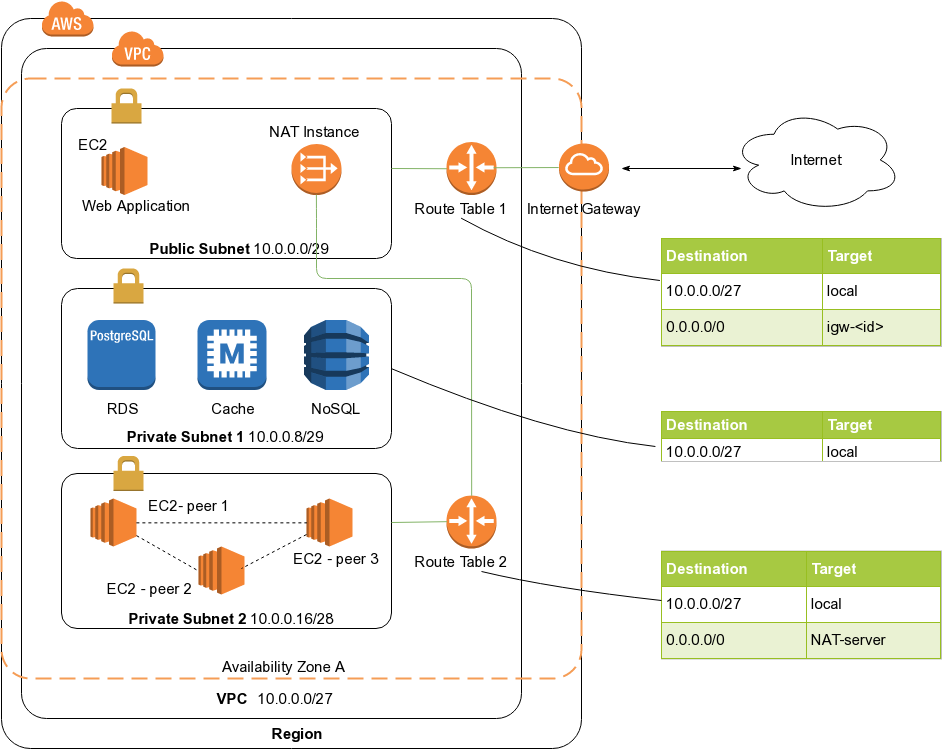
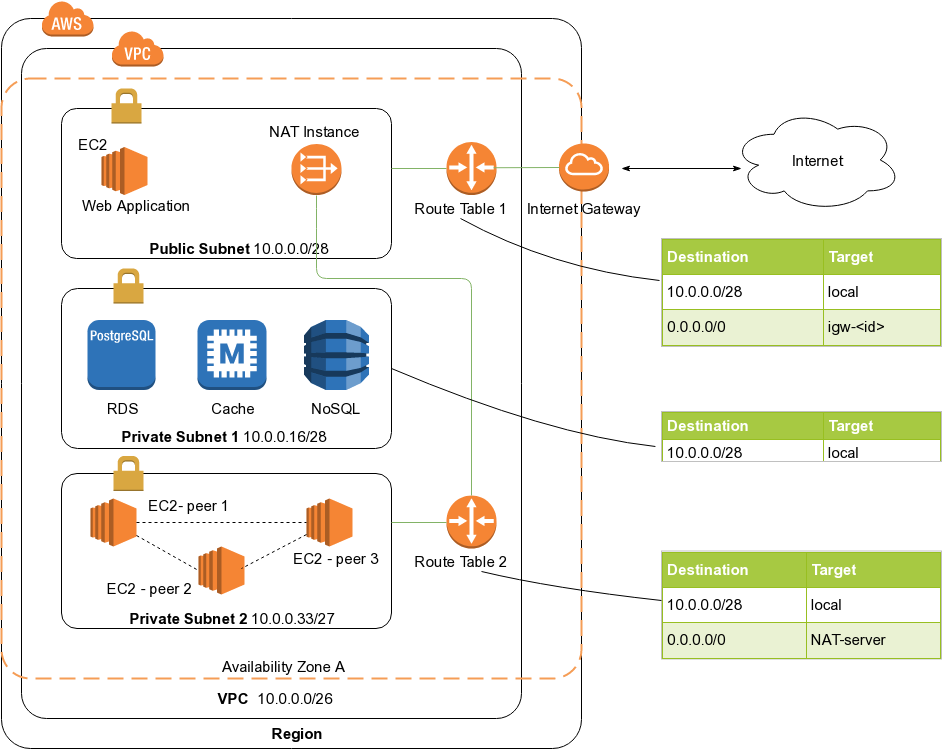
writing deploy chapter; added miscellaneous notes to different parts of the draft

diff --git a/initial-writeup/timeline.tex b/initial-writeup/timeline.tex
@@ -3,34 +3,30 @@
 I intend to graduate in fall 2019 i.e next semester. Below is my timeline to execute the thesis starting
 first week of June, 2019:
 \begin{itemize}
-\item[(Week 1 - 7)] First get the single node crawler running on local development environment. To do this,
+\item[(Week 1 - 7)] First get the single node crawler running on local development environment. To achieve this,
   \begin{itemize}
   \item[(Week 1)] Build docker images of data stores involved. I will be using PostgreSQL for
     fingerprintDB, Robots Exclusion Policy, and DUE url set. The job data will be stored in MongoDB(local)
-    and DynamoDB(AWS). Each data store will maintain local.yml
+    and DynamoDB-MongoDB compatible(AWS). Each data store will maintain local.yml
     \& production.yml that will point to local and aws version of databases, respectively.
-  \item[(Week 1)] Build docker image of RabbitMQ with default configuration. Followed by getting acquainted with enough terminology and tutorials to get started. This image will be shared with all phases of a
+  \item[(Week 1)] Build docker image of RabbitMQ with default configuration. Followed by getting acquainted with enough terminology and tutorials to get started. This image will be shared with all subsystems of a
     crawler.
-  \item [(Week 2)]Initialize git repository for each phase of the crawler. Build docker image for each phase,
-    specify RabbitMQ as its dependency. Bind each phase to a queue through a message broker depending
+  \item [(Week 2)]Initialize git repository for each subsystem of the crawler. Build docker image for each subsystem,
+    specify RabbitMQ as its dependency. Bind each subsystem to a queue through a message broker depending
     on its role as a consumer/producer.
-  \item[(Week 2)] Boot the phases in sequence using docker compose. Test the message passing between services.
-    This stage ensures the tooling required is up \& running as expected.
-  \item[(Week 3)] Code functionality for consumer \& producer scripts bound to a queue of fetcher module. 
-  \item[(Week 4)] Code functionality for consumer \& producer scripts of Parser, Content Seen modules as separate
-    services. Test message passing among fetcher, parser , \& content seen.
-  \item[(Week 5)] Code functionality for consumer \& producer scripts bound to a queue for URL filter module. Test
-    message passing between this filter and previous modules implemented.
-  \item[(Week 6)] Implement consumer \& producer scripts for DUE. Test message passing between modules implemented
-    so far.
-  \item[(Week 7)] Code functionality for URL Frontier. Verify messages published \& consumed. Test message passing between modules implemented so far.
+  \item[(Week 2)] Boot all the subsystems in sequence using docker compose. Test the message passing between services. This stage ensures the tooling required is up \& running as expected.
+  \item[(Week 3)] Code functionality for consumer \& producer scripts bound to a queue of fetcher \& DNS subsystem. 
+  \item[(Week 4)] Code functionality for consumer \& producer scripts of Parser, Content Seen subsystems, respectively as separate services. Test message passing among fetcher, parser , \& content seen.
+  \item[(Week 5)] Code functionality for consumer \& producer scripts bound to a queue for URL filter subsystem. Test message passing between this filter and previous subsystems implemented.
+  \item[(Week 6)] Implement consumer \& producer scripts for DUE. Test message passing between subsystems implemented so far.
+  \item[(Week 7)] Code functionality for URL Frontier subsystem. Verify messages published \& consumed. Test message passing between subsystems implemented so far.
   \end{itemize}
-\item[(Week 8)] At this stage, ensure the program is running as a single node on local machine.
-\item[(Week 8 \& 9)] Initialize a repo. for host splitting module. Implement consistent hashing algorithm.
-  This will parallelize crawling.
-\item[(Week 10)] Next, Setup AWS Infrastructure for whirlpool by following the diagram. Build and test
-    the docker images pointing to AWS data stores within the pvt subnets.
-\item[(Week 11)] Get crawler running on single node within a private subnet of AWS VPC.
+\item[(Week 8)] At this stage, ensure the crawler as a whole is running as a single node on local machine.
+\item[(Week 8 \& 9)] Next, Setup AWS Infrastructure for whirlpool by following the diagram. Build and test
+    the docker images in isolation pointing to AWS data stores within the pvt subnets.
+\item[(Week 10)] Get crawler running on single node within a private subnet of AWS VPC.
+\item[(Week 10 \& 11)] Initialize a repo. for host splitting module. Implement consistent hashing algorithm. This will parallelize crawling.
+
 \item[(Week 11 \& 12)] Make 2nd identical clone of the crawler within a private subnet of AWS VPC. Observe \& verify traffic is split equally between the nodes.
 \item[(week 13)] Demonstrate Whirlpool working to Dr. Soltys. Make any changes requested in the code or the report.
 \end{itemize}

diff --git a/initial-writeup/deploy/deploy-1.tex b/initial-writeup/deploy/deploy-1.tex
@@ -1,10 +1,54 @@
 % Chapter Deployment
 \chapter{Deployment on AWS}
-\section{Infrastructure from 10,000 feet}
+This chapter discusses server farm assembly for running whirlpool on a on-demand resources offered by
+AWS. It uses altitude analogy to illustrate important additions in infrastructure at various levels in
+detail.
+
+\section{Infrastructure from 10,000 feet}\label{infra10k}
+Given a working knowledge of AWS and a crawler which is replicated on to more than one machine, it 
+becomes naturally obvious to setup a subnet within a Virtual Private Cloud(VPC) and launch EC2 instances
+in it. The subnet within a VPC belongs to single Availability Zone(AZ). 
 \begin{figure}[h!]
   \centering
-  \includegraphics[width=20cm,height=12cm,keepaspectratio]{../media/crawler/ten-thousand-feet-aws.png}
-  \caption{Whirlpool Infrastructure using VPC, subnetting}
+  \includegraphics[width=18cm,height=12cm,keepaspectratio]{../media/crawler/ten-thousand-feet-aws.png}
+  \caption{Whirlpool Infrastructure using VPC, AZ, and subnet sizing}
+  \label{fig:infra10k}
 \end{figure}
 
-\pagebreak
+\noindent
+Next, the nature of crawling process is such that it will make outgoing connections to the web servers and never except incoming connections which means the subnet should allow outbound traffic and deny inbound traffic. According to the default behavior of AWS VPC, a private subnet is denied any inbound/outbound connections to the internet. To enable access to the internet within a subnet, a Internet Gateway(IGW) is attached to the VPC.
+\\
+\\
+\noindent
+Moreover, the subsystems of whirlpool leverage relational database to maintain a history of URLs, NoSQL to
+store extracted text which is then used by the presentation tier to render the data to the public. Also,
+later on, a cache server can be adopted to optimize lookup efficiency of various components. Given this
+requirement, its safer to form a second private subnet dedicated to placement of data stores and a third
+subnet which is public to host application server as shown in the figure \ref{fig:infra10k}. This way, the data store subnet would stay safer routing traffic only within the VPC.
+\\
+\\
+\noindent
+Figure \ref{fig:infra10k} uses Classless Inter-Domain Routing(CIDR) block of \ipAddress{10.0.0.0/26} which
+gives a range of \ipAddress{64} IPv4 addresses. This thesis uses a tool \cite{cidr} to calculate CIDR
+blocks. AWS VPC reserves first four and last IPv4 addresses of each subnet created for internal usage and
+therefore cannot be assigned to any instance of any resource. The primary CIDR block size of VPC is used
+then used to create 3 subnets within the VPC each with a non-overlapping CIDR block size. The minimum
+subnet size allowed is \ipAddress{28} and \ipAddress{16}.
+\\
+\\
+CIDR block size is given by $2^{(32 - x)}$, substituting $x$ = 26 yields,
+\begin{align*}
+  2^{(32 - 26)} &= 64 && \text{IP addresses} \\
+\end{align*}
+\\
+3 subnets formation = $\underbrace{16}_\text{public}$ + $\underbrace{16}_\text{1st private}$ + $\underbrace{32}_\text{2nd private}$
+\\
+\\
+Actual IP addresses available = $\underbrace{11}_\text{public}$ + $\underbrace{11}_\text{1st private}$ + $\underbrace{27}_\text{2nd private}$
+\\
+\\
+Public subnet IP range = \ipAddress{10.0.0.0/28} $\rightarrow$ (0 - 15)
+\\                                                
+1st Private subnet IP range = \ipAddress{10.0.0.0/28} $\rightarrow$ (16 - 31)
+\\                                                
+2nd Private subnet IP range = \ipAddress{10.0.0.0/28} $\rightarrow$ (32 - 64)

diff --git a/initial-writeup/deploy/deploy-2.tex b/initial-writeup/deploy/deploy-2.tex
@@ -1,19 +1,47 @@
 % Deployment chapter continued
-
 \section{Infrastructure from 5,000 feet}
+Now, following up from section \ref{infra10k}, the 2nd private subnet is the place where the crawler
+resides.
 \begin{figure}[h!]
   \centering
   \includegraphics[width=20cm,height=12cm,keepaspectratio]{../media/crawler/aws-deploy-5k-feet.png}
-  \caption{AWS Deployment of Whirlpool from 5,000 ft}
+  \caption{Whirlpool infrastructure with Route tables, NAT}
+  \label{fig:infra5k}
 \end{figure}
 
-\pagebreak
+\noindent
+According to figure \ref{fig:infra5k}, Each subnet is assigned a default route tables. In order for crawler
+subnet to allow outbound traffic, a NAT instance is deployed on public subnet. NAT forwards traffic form instances to the internet and and send the response for corresponding request back to the instances.
+It wont allow outside clients to initiate connections with instances in crawler subnet. Now the public subnet consists of one application server(EC2) and a NAT instance. The custom route(shown in route table 2)  is created and attached to crawler subnet. The custom rule directs the traffic originated within any of the private subnet peers matching subnet mask \ipAddress{0.0.0.0/0} to NAT server.
+\\
+\\
+At this stage, the public subnet is not really public unless a Internet Gateway(IGW) is attached. After creating a Internet Gateway(IGW), a custom route(show in route table 1) is created and attached to the public subnet. This will scope all packets matching \ipAddress{0.0.0.0/0} route to IGW. The traffic from private
+crawler subnet will flow to NAT Instance and then to the IGW. The NAT will translate back-and-forth source
+and destination IPs of private instances.
+\\
+\\
+The data store private subnet will contain RDS instance(PostgreSQL as part of the implementation). The
+extracted data is hosted in DynamoDB which is a NoSQL variant. One good thing about DynamoDB is its
+MongoDB compatible - the query language interface is blurred according to the recent announcement by AWS at
+the time of this writing.
 
+% note - here expand on EC2, RDS, cache, NoSQL, NAT computing specifications
 \section{AWS resources Cost Estimation}
+The below table provides approximate monthly billing information of AWS resources used by this project to build, test, and run experiments. The calculation was performed using AWS monthly calculator. At the time of
+this writing, the author is enrolled is 12-month AWS Free tier access which discounts most of the services
+the crawler system leverages.
+
+
 \begin{figure}[h!]
   \centering
   \includegraphics[width=20cm,height=12cm,keepaspectratio]{../media/crawler/aws-cost-estimate.png}
-  %\caption{AWS Deployment of Whirlpool from 5,000 ft}
+  \caption{AWS Monthly Expenses}
+  \label{fig:awscost}
 \end{figure}
+
+Under Amazon EC2 services, each crawler node sits on a EC2 instance which is t2.micro - 1GiB RAM coupled
+with Elastic Block Storage(EBS) volume of 5 GiB has approx. 5o\% utilization. Therefore a A 3-node crawler, will have 3x t2.micro and 3x 5 GiB EBS volumes.
+\\
+\\
 
 \pagebreak

diff --git a/initial-writeup/abstract_n_intro.tex b/initial-writeup/abstract_n_intro.tex
@@ -15,7 +15,7 @@ act accordingly. This thesis does not deal with data mining but instead focuses 
 \\
 \\
 \begin{itemize}
-  \item \textbf{Use of Message Queue:} In one case, the paper doesn't discuss communication between its components. This thesis makes use of message broker to facilitate collaboration between components thus providing asynchronous, event-driven style of communication. It also highlights its strengths \& weakness.
+  \item \textbf{Use of Message Queue:} In one case, the paper doesn't provides information on how the subsystems that make up a crawler are connected together. This thesis makes use of message broker to facilitate collaboration between components thus providing asynchronous, event-driven style of communication. It also highlights its strengths \& weakness.
    \item \textbf{Crawl Ordering Problem:} A more crucial issue is without having a target to crawl, the problem of crawling becomes endless, infinite crawling even for specialized crawler such as this. This thesis discusses the crawl ordering strategy to shape its crawling only to specific content.
    \item \textbf{Distributing the crawl:} Furthermore, this thesis shows the shortcomings of linear hashing used for partitioning hosts to distribute the crawl and instead employs consistent hashing\cite{consisthash} algorithm and discuss its merits over it.
     \item \textbf{Development strategy:}  Given this complex program at hand, it becomes obvious to separate the concerns by developing and testing each component in isolated pieces. This thesis leverages docker containers to build the project in stages. It allows to split the development and production environment by building images for the target platform to run the component.

diff --git a/initial-writeup/bkgrnd/bkgrnd-2.tex b/initial-writeup/bkgrnd/bkgrnd-2.tex
@@ -16,7 +16,8 @@ factors.
   \caption{Crawl ordering based on Coverage vs. Freshness}
   \label{fig:crawlorder}
 \end{figure}
-\leavemode \\
+
+\noindent
 \textbf{Coverage:} Focus is on fetching pages that crawler deems required. 
 \\
 \textbf{Freshness:} Here the focus is on revisting, redownloading already visited pages. Since web 2.0,

diff --git a/initial-writeup/setup.tex b/initial-writeup/setup.tex
@@ -32,8 +32,12 @@
 \usepackage{algorithm}
 \usepackage[noend]{algpseudocode}
 
-\usetikzlibrary{automata,positioning,calc}
+%\usemintedstyle{}
+%\usetikzlibrary{automata,positioning,calc}
 %\usepackage{subcaption}
+
+\renewcommand*\ttdefault{pcr}
+\let\ipAddress\texttt
 
 \definecolor{gray75}{gray}{0.75}
 \definecolor{gray1}{gray}{0.97}

diff --git a/initial-writeup/resources.tex b/initial-writeup/resources.tex
@@ -64,6 +64,9 @@ Karger, D.; Lehman, E.; Leighton, T.; Panigrahy, R.; Levine, M.; Lewin, D. (1997
 \bibitem{aws}
 \url{https://aws.amazon.com/}
 
+\bibitem{cidr}
+\url{http://www.subnet-calculator.com/cidr.php}
+
 \bibitem{docker}
 \url{https://www.docker.com/}
 
